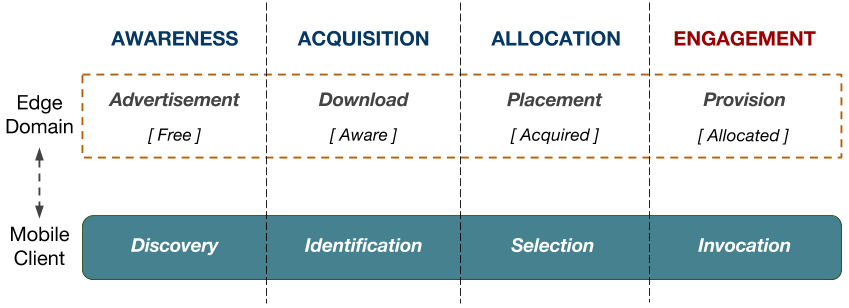
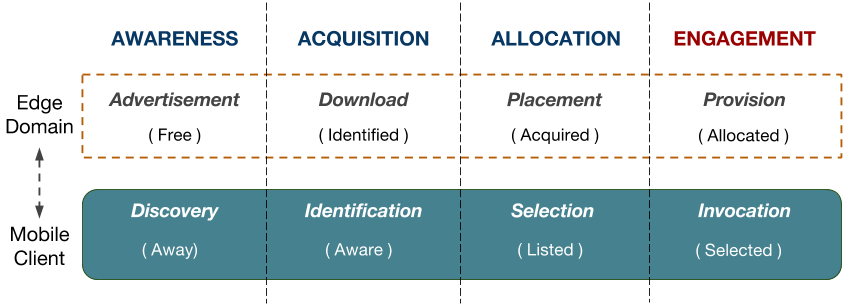
update diagrams

diff --git a/sections/proposal.tex b/sections/proposal.tex
@@ -102,9 +102,12 @@ From this point on, the term edge domain is used to abstract whatever computatio
 \begin{figure}[htbp]
 	\centering
 	\captionsetup[subfigure]{width=\textwidth}
-	\subfloat[Different phases of the A3-E model; phases are delimited by vertical lines and the main activities by inner labels in both clients and domains; labeled oval shapes represent the respective states of both sides at the end of each phase.\label{fig:cloud-to-edge}]{ \includegraphics[width=0.95\textwidth]{figs/A3-E.png}}\hfill
+	\subfloat[Different phases of the A3-E model; phases are delimited by vertical lines and the main activities by inner labels in both clients and domains; labeled oval shapes represent the respective states of both sides at the end of each phase\label{fig:cloud-to-edge}]{ \includegraphics[width=0.9\textwidth]{figs/A3-E.png}}\hfill
 	
-	\subfloat[Different states of a given edge domain with respect to a given application; the transitions between awareness, acquisition, and allocation are guarded by policies that may vary according to the type of application and to the type of edge infrastructure\label{fig:mobile-to-edge}] {\includegraphics[width=0.75\textwidth]{figs/A3-E-states.png}}\hfill
+	\raggedright
+	\subfloat[Different states of a given edge domain with respect to a given client application; the transitions between states triggered by domain events are guarded by policies that may vary according to the type of edge infrastructure and application\label{fig:A3-E-domain}] {\includegraphics[width=0.95\textwidth]{figs/A3-E-domain.png}}\hfill
+	
+	\subfloat[Different states of a given client with respect to a given edge domain; the transitions between states triggered by client events are guarded by policies that may vary according to the client requirements\label{fig:A3-E-client}] {\includegraphics[width=0.95\textwidth]{figs/A3-E-client.png}}\hfill
 	\caption{The A3-E Model} \label{fig:1}
 \end{figure}
 
